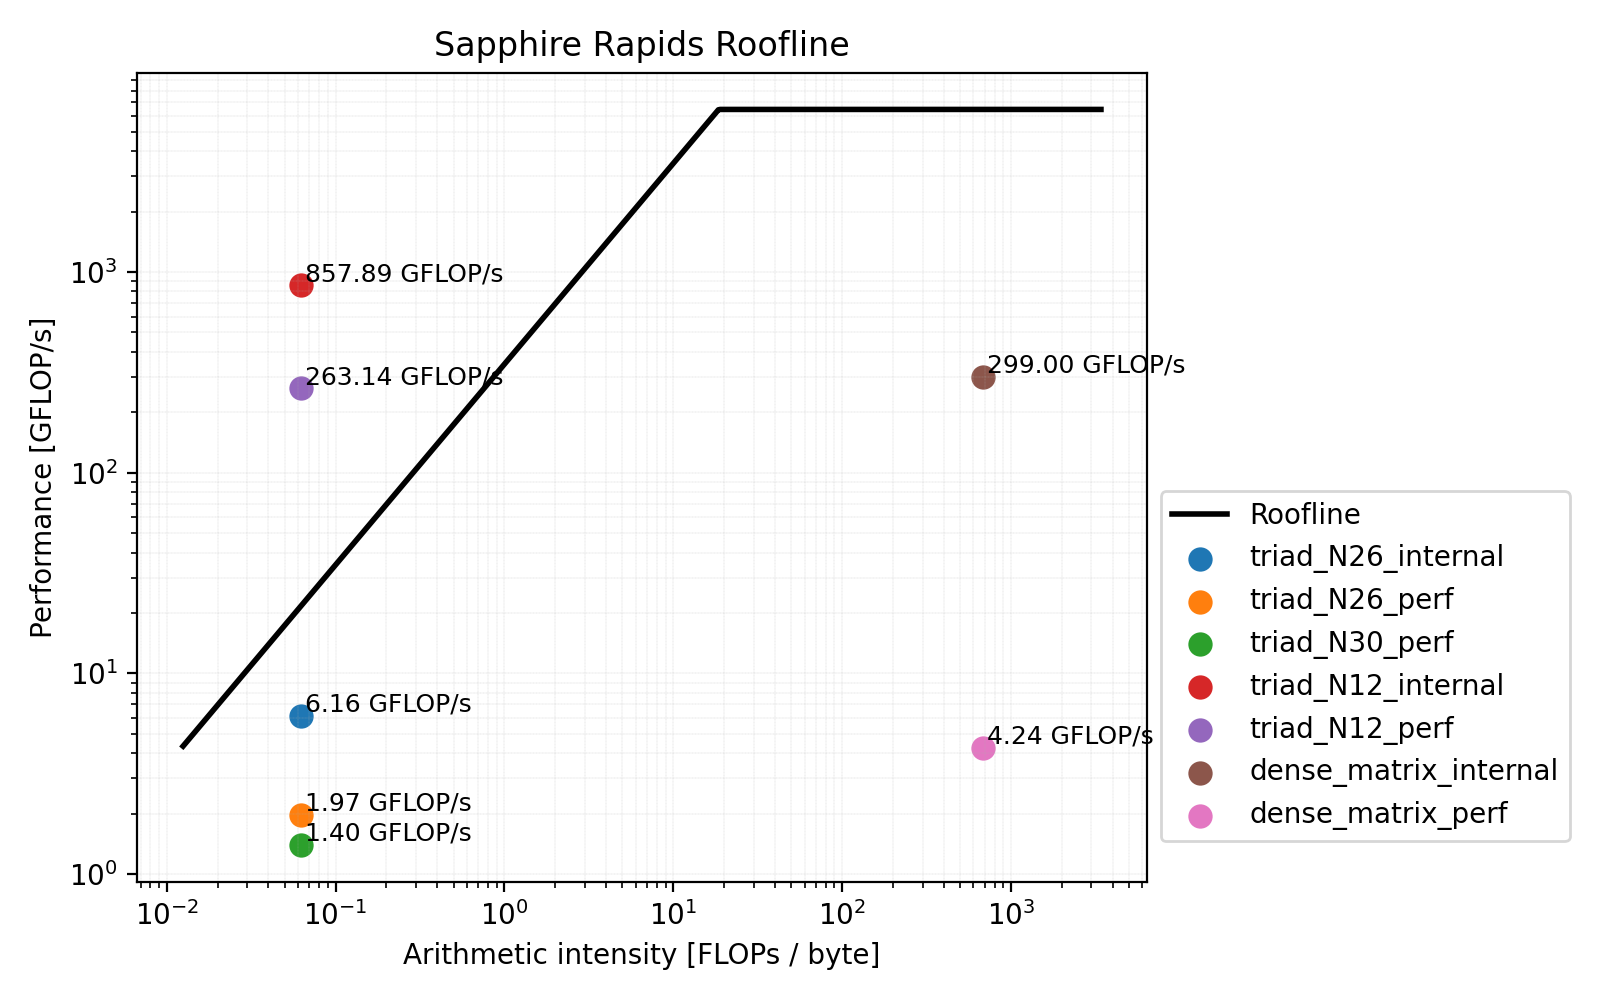
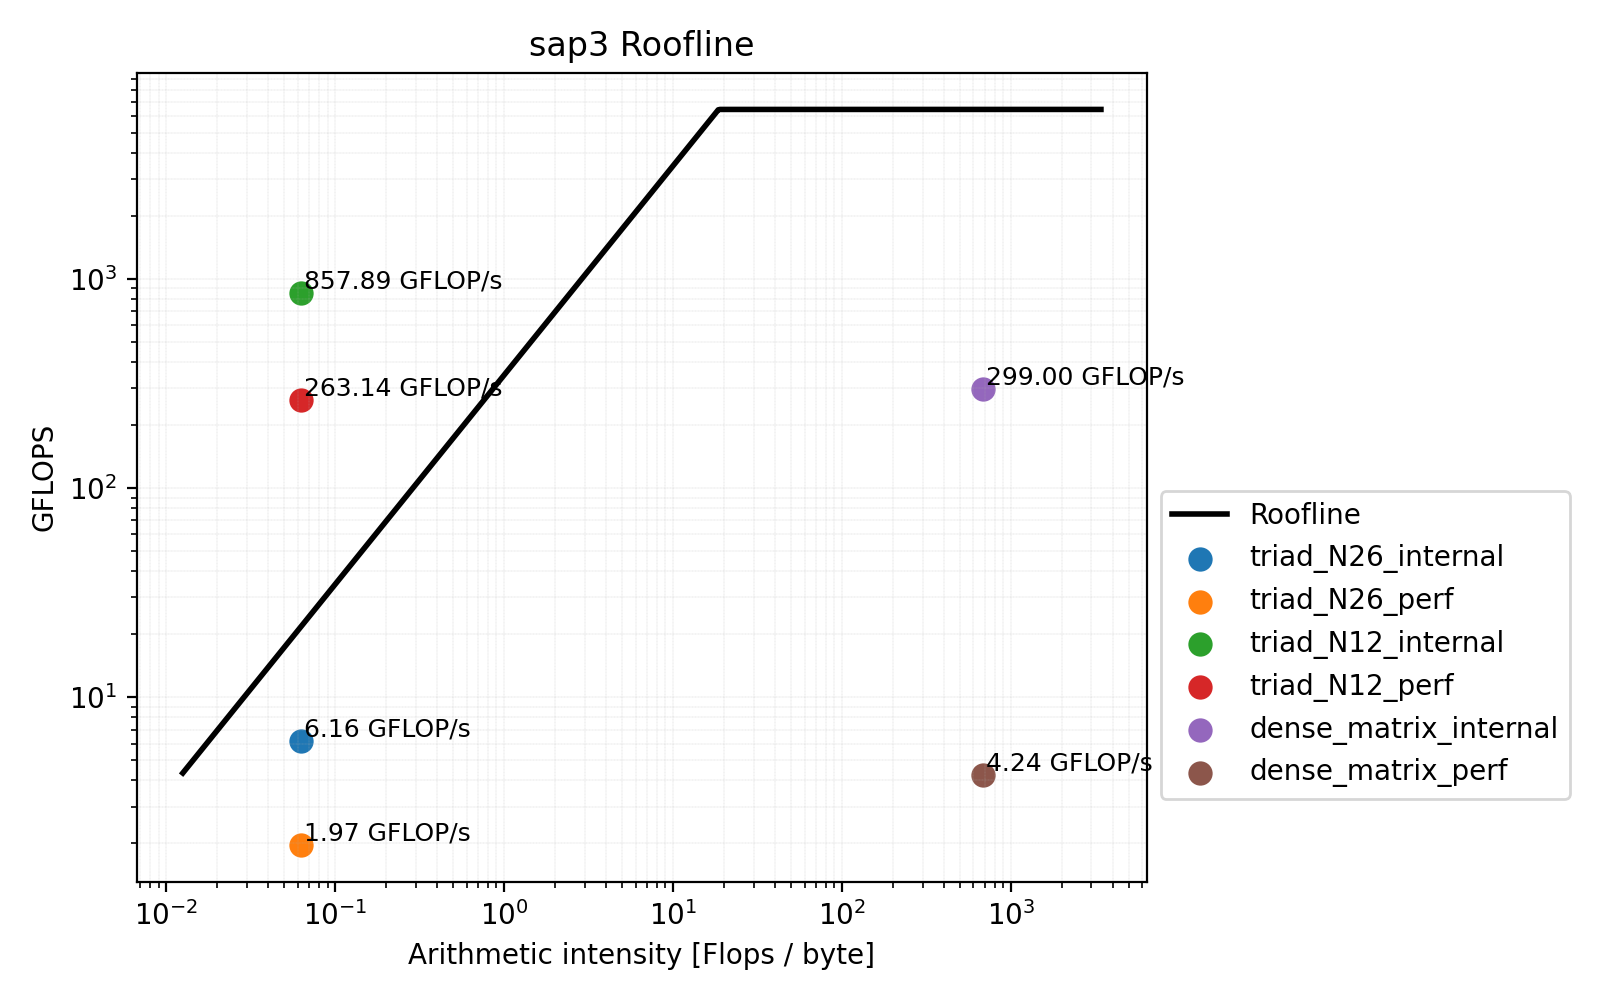
add Tas 1 and 4 md

diff --git a/assignment03/src/plot_analyse/plot_gflops_per_watt.py b/assignment03/src/plot_analyse/plot_gflops_per_watt.py
@@ -1,0 +1,237 @@
+#!/usr/bin/env python3
+"""
+Plot GFLOP/W measurements for multiple devices across power states.
+"""
+import argparse
+from collections import OrderedDict
+from dataclasses import dataclass
+from typing import Iterable, List, Optional, Sequence, Tuple
+
+import matplotlib.pyplot as plt
+import numpy as np
+
+
+@dataclass
+class EfficiencyRun:
+    device: str
+    state: str
+    gflops_per_watt: float
+
+
+DEFAULT_RUN_ARGUMENTS: Tuple[Tuple[str, str, str], ...] = (
+    ("milan2", "triad", "0.16619105199516324"),
+    ("milan2", "mm_small_N", "0.01954478860523322"),
+    ("milan2", "mm_large_N", "2.3278145716516265"),
+    ("cs2", "triad", "0.014810344827586207"),
+    ("cs2", "mm_small_N", "0.003686667206866953"),
+    ("cs2", "mm_large_N", "1.9140701352752372"),
+)
+
+
+def parse_runs(raw_runs: Iterable[Sequence[str]]) -> List[EfficiencyRun]:
+    parsed: List[EfficiencyRun] = []
+    for device, state, value_str in raw_runs:
+        try:
+            gflops_per_watt = float(value_str)
+        except ValueError as exc:
+            raise argparse.ArgumentTypeError(
+                f"Could not parse GFLOP/W value for '{device} {state}': {exc}"
+            ) from exc
+        parsed.append(EfficiencyRun(device=device, state=state, gflops_per_watt=gflops_per_watt))
+    return parsed
+
+
+def collect_orders(runs: Sequence[EfficiencyRun]) -> Tuple[List[str], OrderedDict[str, dict]]:
+    """
+    Build ordered collections of devices and states to keep CLI order intact.
+    """
+    devices: List[str] = []
+    states: OrderedDict[str, dict[str, float]] = OrderedDict()
+
+    for run in runs:
+        if run.device not in devices:
+            devices.append(run.device)
+        if run.state not in states:
+            states[run.state] = {}
+        states[run.state][run.device] = run.gflops_per_watt
+
+    return devices, states
+
+
+def compute_bar_positions(num_states: int, num_devices: int) -> Tuple[np.ndarray, float, np.ndarray]:
+    x_positions = np.arange(num_states)
+    # Spread bars inside each state; keep total width capped for readability.
+    width = min(0.8 / max(num_devices, 1), 0.25) if num_devices > 1 else 0.5
+    offsets = (np.arange(num_devices) - (num_devices - 1) / 2.0) * width
+    return x_positions, width, offsets
+
+
+def format_value(value: float) -> str:
+    """
+    Format GFLOP/W values so small numbers remain distinguishable on annotations.
+    """
+    abs_value = abs(value)
+    if abs_value >= 10:
+        formatted = f"{value:.1f}"
+    elif abs_value >= 1:
+        formatted = f"{value:.2f}"
+    elif abs_value >= 0.1:
+        formatted = f"{value:.3f}"
+    elif abs_value >= 0.01:
+        formatted = f"{value:.4f}"
+    elif abs_value >= 0.001:
+        formatted = f"{value:.5f}"
+    else:
+        return f"{value:.2e}"
+
+    stripped = formatted.rstrip("0").rstrip(".")
+    return stripped if stripped else "0"
+
+
+def plot_runs(
+    runs: Sequence[EfficiencyRun],
+    title: str,
+    output: Optional[str],
+    annotate: bool,
+    ymax_padding: float,
+    y_scale: str,
+) -> None:
+    devices, states = collect_orders(runs)
+
+    state_labels = list(states.keys())
+    num_states = len(state_labels)
+    num_devices = len(devices)
+
+    x_positions, bar_width, offsets = compute_bar_positions(num_states, num_devices)
+
+    fig, ax = plt.subplots(figsize=(8, 5))
+
+    ymax = 0.0
+    min_positive = np.inf
+
+    for device_idx, device in enumerate(devices):
+        values = []
+        for state in state_labels:
+            value = states[state].get(device)
+            values.append(value if value is not None else np.nan)
+
+        values_array = np.array(values, dtype=float)
+        if y_scale == "log":
+            if np.any(values_array <= 0):
+                raise ValueError("Logarithmic y-scale requires all GFLOP/W values to be > 0.")
+        positive_values = values_array[values_array > 0]
+        if positive_values.size:
+            min_positive = min(min_positive, float(np.nanmin(positive_values)))
+        try:
+            series_max = float(np.nanmax(values_array))
+        except ValueError:
+            series_max = 0.0
+        ymax = max(ymax, series_max)
+
+        bar_positions = x_positions + offsets[device_idx]
+        bars = ax.bar(bar_positions, values_array, bar_width, label=device)
+
+        if annotate:
+            for rect, value in zip(bars, values_array):
+                if np.isnan(value):
+                    continue
+                height = rect.get_height()
+                if y_scale == "log":
+                    text_y = height * (1.0 + ymax_padding)
+                else:
+                    text_y = height * 1.01
+                ax.text(
+                    rect.get_x() + rect.get_width() / 2.0,
+                    text_y,
+                    format_value(float(value)),
+                    ha="center",
+                    va="bottom",
+                    fontsize=9,
+                )
+
+    ax.set_xticks(x_positions)
+    ax.set_xticklabels(state_labels)
+    ax.set_ylabel("GFlops/W")
+    ax.set_title(title)
+    ax.grid(axis="y", linestyle="--", linewidth=0.3)
+    ax.legend(title="Device")
+
+    ax.set_yscale(y_scale)
+
+    if ymax > 0:
+        upper = ymax * (1.0 + ymax_padding)
+        if y_scale == "log":
+            if not np.isfinite(min_positive) or min_positive <= 0:
+                raise ValueError("Logarithmic y-scale requires all GFLOP/W values to be > 0.")
+            lower = min_positive / (1.0 + ymax_padding)
+            ax.set_ylim(lower, upper)
+        else:
+            ax.set_ylim(0, upper)
+
+    fig.tight_layout()
+
+    if output:
+        fig.savefig(output, dpi=200)
+    else:
+        plt.show()
+
+
+def main() -> None:
+    parser = argparse.ArgumentParser(
+        description="Plot GFLOP/W measurements for several devices across power states."
+    )
+    parser.add_argument(
+        "--run",
+        nargs=3,
+        metavar=("DEVICE", "STATE", "GFLOP_PER_WATT"),
+        action="append",
+        help="Measured run supplied as (device, state, GFLOP/W). Provide multiple --run entries "
+        "to override the default data set.",
+    )
+    parser.add_argument(
+        "--title",
+        default="",
+        help="Figure title.",
+    )
+    parser.add_argument(
+        "--output",
+        help="Optional output path for saving the figure (PNG, PDF, ...). If omitted the plot "
+        "window is shown.",
+    )
+    parser.add_argument(
+        "--no-annotations",
+        action="store_true",
+        help="Hide the GFLOP/W value on top of each bar.",
+    )
+    parser.add_argument(
+        "--ymax-padding",
+        type=float,
+        default=0.05,
+        help="Relative headroom above the tallest bar (default: 5%%).",
+    )
+    parser.add_argument(
+        "--y-scale",
+        choices=("linear", "log"),
+        default="log",
+        help="Y-axis scale (default: log).",
+    )
+
+    args = parser.parse_args()
+
+    raw_runs = args.run if args.run else DEFAULT_RUN_ARGUMENTS
+    runs = parse_runs(raw_runs)
+    try:
+        plot_runs(
+            runs=runs,
+            title=args.title,
+            output=args.output,
+            annotate=not args.no_annotations,
+            ymax_padding=args.ymax_padding,
+            y_scale=args.y_scale,
+        )
+    except ValueError as exc:
+        parser.error(str(exc))
+
+
+if __name__ == "__main__":
+    main()

diff --git a/assignment03/src/plot_analyse/plot_roofline.py b/assignment03/src/plot_analyse/plot_roofline.py
@@ -76,7 +76,7 @@ def main() -> None:
     )
     parser.add_argument(
         "--title",
-        default="Sapphire Rapids Roofline",
+        default="sap3 Roofline",
         help="Figure title.",
     )
 
@@ -119,8 +119,8 @@ def main() -> None:
     knee_ai = args.peak_gflops / args.bandwidth
    # ax.axvline(knee_ai, color="grey", linestyle="--", linewidth=1, label="Roofline knee")
 
-    ax.set_xlabel("Arithmetic intensity [FLOPs / byte]")
-    ax.set_ylabel("Performance [GFLOP/s]")
+    ax.set_xlabel("Arithmetic intensity [Flops / byte]")
+    ax.set_ylabel("GFLOPS")
     ax.set_title(args.title)
     ax.grid(which="both", linestyle="--", linewidth=0.1)
     ax.legend(bbox_to_anchor=(1, 0.5))

diff --git a/assignment03/report/Report on Task 1.md b/assignment03/report/Report on Task 1.md
@@ -1,0 +1,44 @@
+# Report on Task 1:
+## a)![fig](plots/image.png)
+All four platforms share the same basic classes of predefined events such as:
+
+| class | example of event |
+|-------|------------------|
+|Hardware event| branch-misses, cache-misses, cpu-cycles|
+|Software event| page-faults, major-faults| 
+|Tool event| duration_time|
+
+Then the individual platforms differ in the number of predefined events they offer. The 'gh2' and 'cs2' for example have no further predefined event classes and all in all have the fewest predefined events. It is to be noted that both platforms are running on ARM architecture, while the other two platforms run on x86 architecture. The 'sap3' and 'milan2' platforms have more predefined event classes in common like `Kernel PMU events`, sap3 also lists the event class  `Hardware cache event` whilst milan2 then has dedicated lists for branch, cache, core, data fabric, floating point, and memory related events.
+
+The three shared classes cover all the major components of a computer system: `Hardware event` lists events which are commonly implemented or related to hardware solutions like branch prediction, caching and cpu cycles. These events get updated directly by the hardware and the Kernel then just reads their value from dedicated register, whereas  `Software event` list context switches, page-faults and emulation faults, which are components typically implemented by Software, commonly in the OS itself which then is responsible for keeping track of the occurrences of these events. `Tool event` can be seen as meta events of perf and list rather few events like duration_time.
+
+To do a roofline analysis of the triad benchmark, we need to measure the achieved performance of our run this can be done by measuring the execution time of our benchmark and calculating the floating point operations per second. This measurement can be done by using the Tool event `duration_time`.
+
+
+## b)![alt text](plots/image2.png)
+The following measurements were taken on the sap3 platform using the perf tool. For the triad benchmark using 128 Threads and for the matrix multiplication benchmark using 512 Threads.
+
+![plot](plots/roofline_triads.png)
+
+
+The values calculated by the perftool differ from those which are calculated internally due to overhead which is measured in perf but not internally like the initialization of the vectors and the verification of the results. All the points are underneath each other because the Arithmetic intensity is constant the points which are above the roofline ceiling fit complete inside the caches therefore they achieve higher performance than the roofline model predicts based on the main memory bandwidth.
+
+## c) ![alt text](plots/1image-2.png) ![alt text](plots/1image-1.png)
+The following output of perf for the triad benchmark on the sap3 platform shows the measured event 
+
+`cycles`:
+![alt text](plots/image-1.png)
+
+`cach miss`:
+![alt text](plots/image-2.png)
+
+`instructions`:
+![alt text](plots/image-3.png)
+
+
+`branches`:
+  ![alt text](plots/image-4.png)
+ 
+### Findings & interpretation
+
+All samplings show that the most visited region is the inner loop of the triad benchmark. This is expected as this is where the data is fetched from memory and the main computations are performed. It is to be noted that appart from the two `vmovupd` which are vector load instruction the combined `vfmadd132pd` instruction also fetches data from memory and then performs a combined addition and multiplication operation. This means that a significant portion of the CPU cycles are dedicated to memory operations which is expected for a memory intensive benchmark like the triad benchmark.

diff --git a/assignment03/report/Report on Task 4.md b/assignment03/report/Report on Task 4.md
@@ -1,0 +1,41 @@
+# Report on Task 4:
+
+
+
+The idle power consumption of milan and cs (all cs n nodes) is  701W and  1158W respectively.
+
+### Benchmark Power Consumption
+
+![](plots/Figure_1.png)
+
+
+
+
+#### Parameters of the runs (settings based on previous experiments)
+
+| Benchmark    | Threads | N     | Tile Size |
+|--------------|---------|-------|-----------|
+| triad        | 128     | 26    | -         |
+| mm small     | 1       | 32    | 52        |
+| mm large     | 512     | 8192  | 52        |
+
+
+#### Measurements: milan vs cs
+
+| Benchmark    | milan Power avg. (W) | milan GFLOPs | cs Power avg. (W) | cs GFlops |
+|--------------|------------------|--------------|---------------|------------|
+| triad        | 827              | 137.44       | 1160          | 17.18      |
+| mm small     | 879              | 17.18        | 1165          | 4.29       |
+| mm large     | 953              | 2218.41      | 1159          | 2218.41    |
+
+
+### Results and Interpretation
+
+All in all the milan system requires less power both at idle and under load (Note: That all cs nodes are measured together, while milan is only one node). When comparing the different benchmarks it can be seen that on both machines the matrix multiplication with large N is the most efficent one, whilst for small N it is very inefficent. This can be explained by the fact that for small N the overhead of managing threads and cache effects play a much larger role than for large N where the compute intensity is much higher. The triad benchmark lies in between those two extremes.
+
+
+### Further Findings
+In the test runs on cs it is to be noted that the power consumtion barely increased from idle to full load. Which can be due to the fact that all cs nodes are connected to the same pdu.
+
+The highest one time power measurement for the milan system was `1126W` during the large matrix multiplication run. And for the cs system it was `1173W` during the small matrix multiplication run.
+

diff --git a/assignment03/report/Appendix.md b/assignment03/report/Appendix.md
@@ -1,0 +1,7 @@
+# Appendix
+
+## Disclaimer
+Given our smaller Group size we did not have the capacity to investigate every aspect of the assignment in depth. Therefore some explanations and analysis might be superficial and not cover all edge cases. We choose the most relevant parts to focus on and provide a concise report.
+
+## Deceleration of the use of generative AI
+Generative AI tools such as ChatGPT and GitHub Copilot were utilized during the implementation of the Python script used to generate the plots to accelerate the development process.
